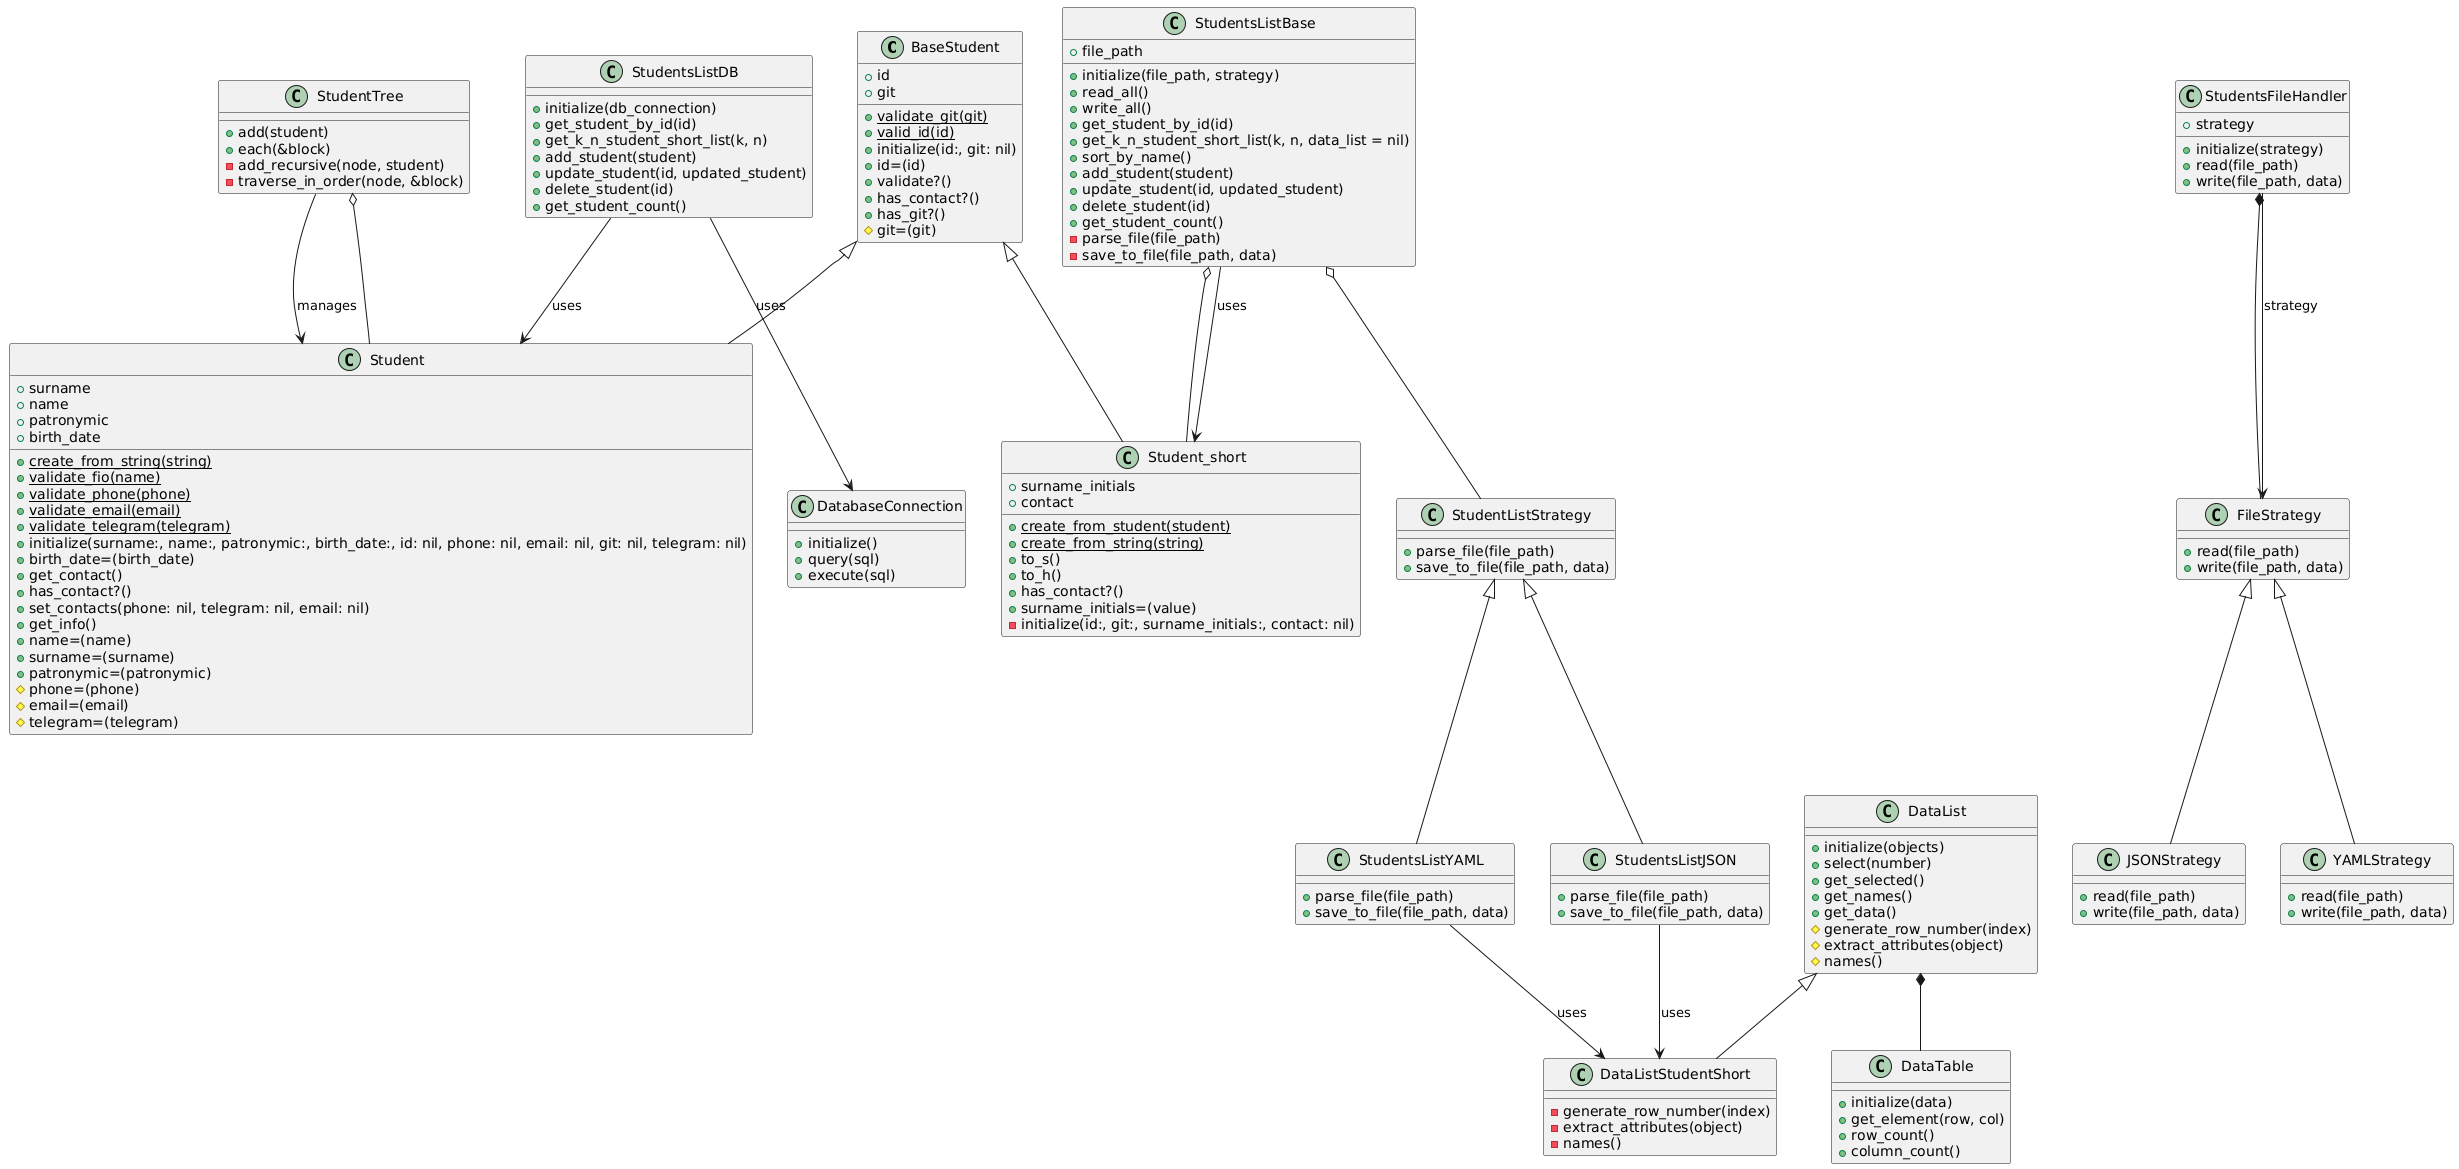
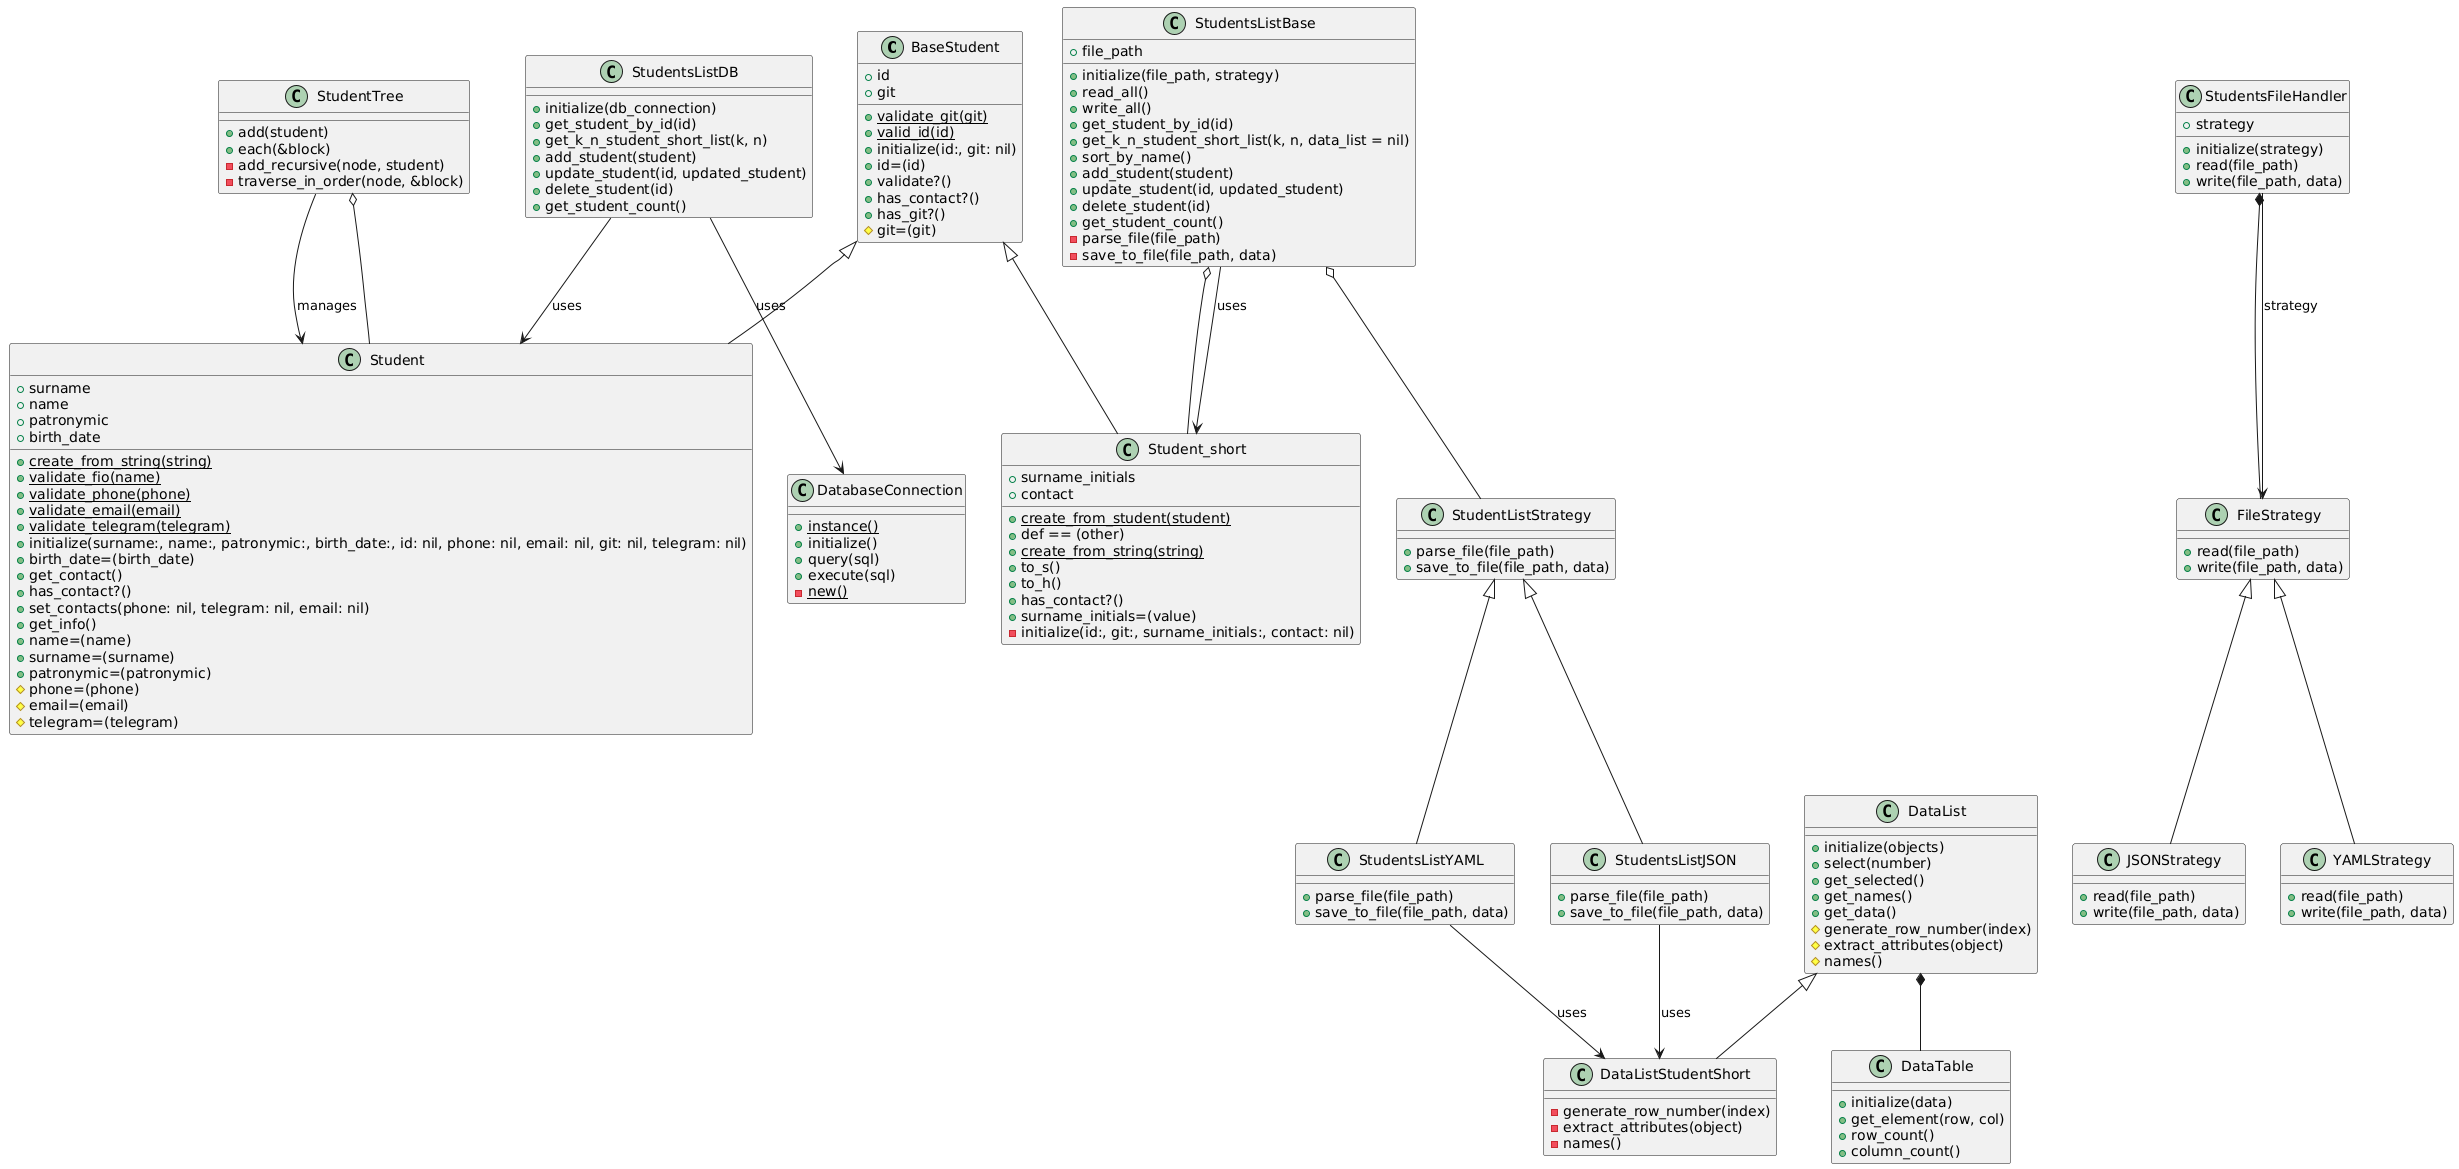
lab4_work3 refactor error patter

Changed region(s): [[0.3091, 0.3695, 0.5563, 0.5543], [0.3091, 0.4927, 0.34, 0.5235]]

diff --git a/student/main.rb b/student/main.rb
@@ -193,7 +193,7 @@ yaml_handler.write('students_new.yaml', new_students)
 require_relative 'C:\abc\кубгу\3 курс\патерны проектирования\student\data_base\DatabaseConnection.rb'
 require_relative 'C:\abc\кубгу\3 курс\патерны проектирования\student\data_base\StudentsListDB.rb'
 # Создаём подключение к базе данных
-db_connection = DatabaseConnection.new
+db_connection = DatabaseConnection.instance
 
 # Создаём объект для работы со списком студентов в базе данных
 students_list_db = StudentsListDB.new(db_connection)

diff --git a/student/data_base/DatabaseConnection.rb b/student/data_base/DatabaseConnection.rb
@@ -1,6 +1,14 @@
 require 'oci8'
 
 class DatabaseConnection
+  @instance = nil
+
+  def self.instance
+    @instance ||= new
+  end
+
+  private_class_method :new
+
   def initialize
     @connection = OCI8.new('SYS', '123', '//localhost:1521/XE', :SYSDBA)
   end
